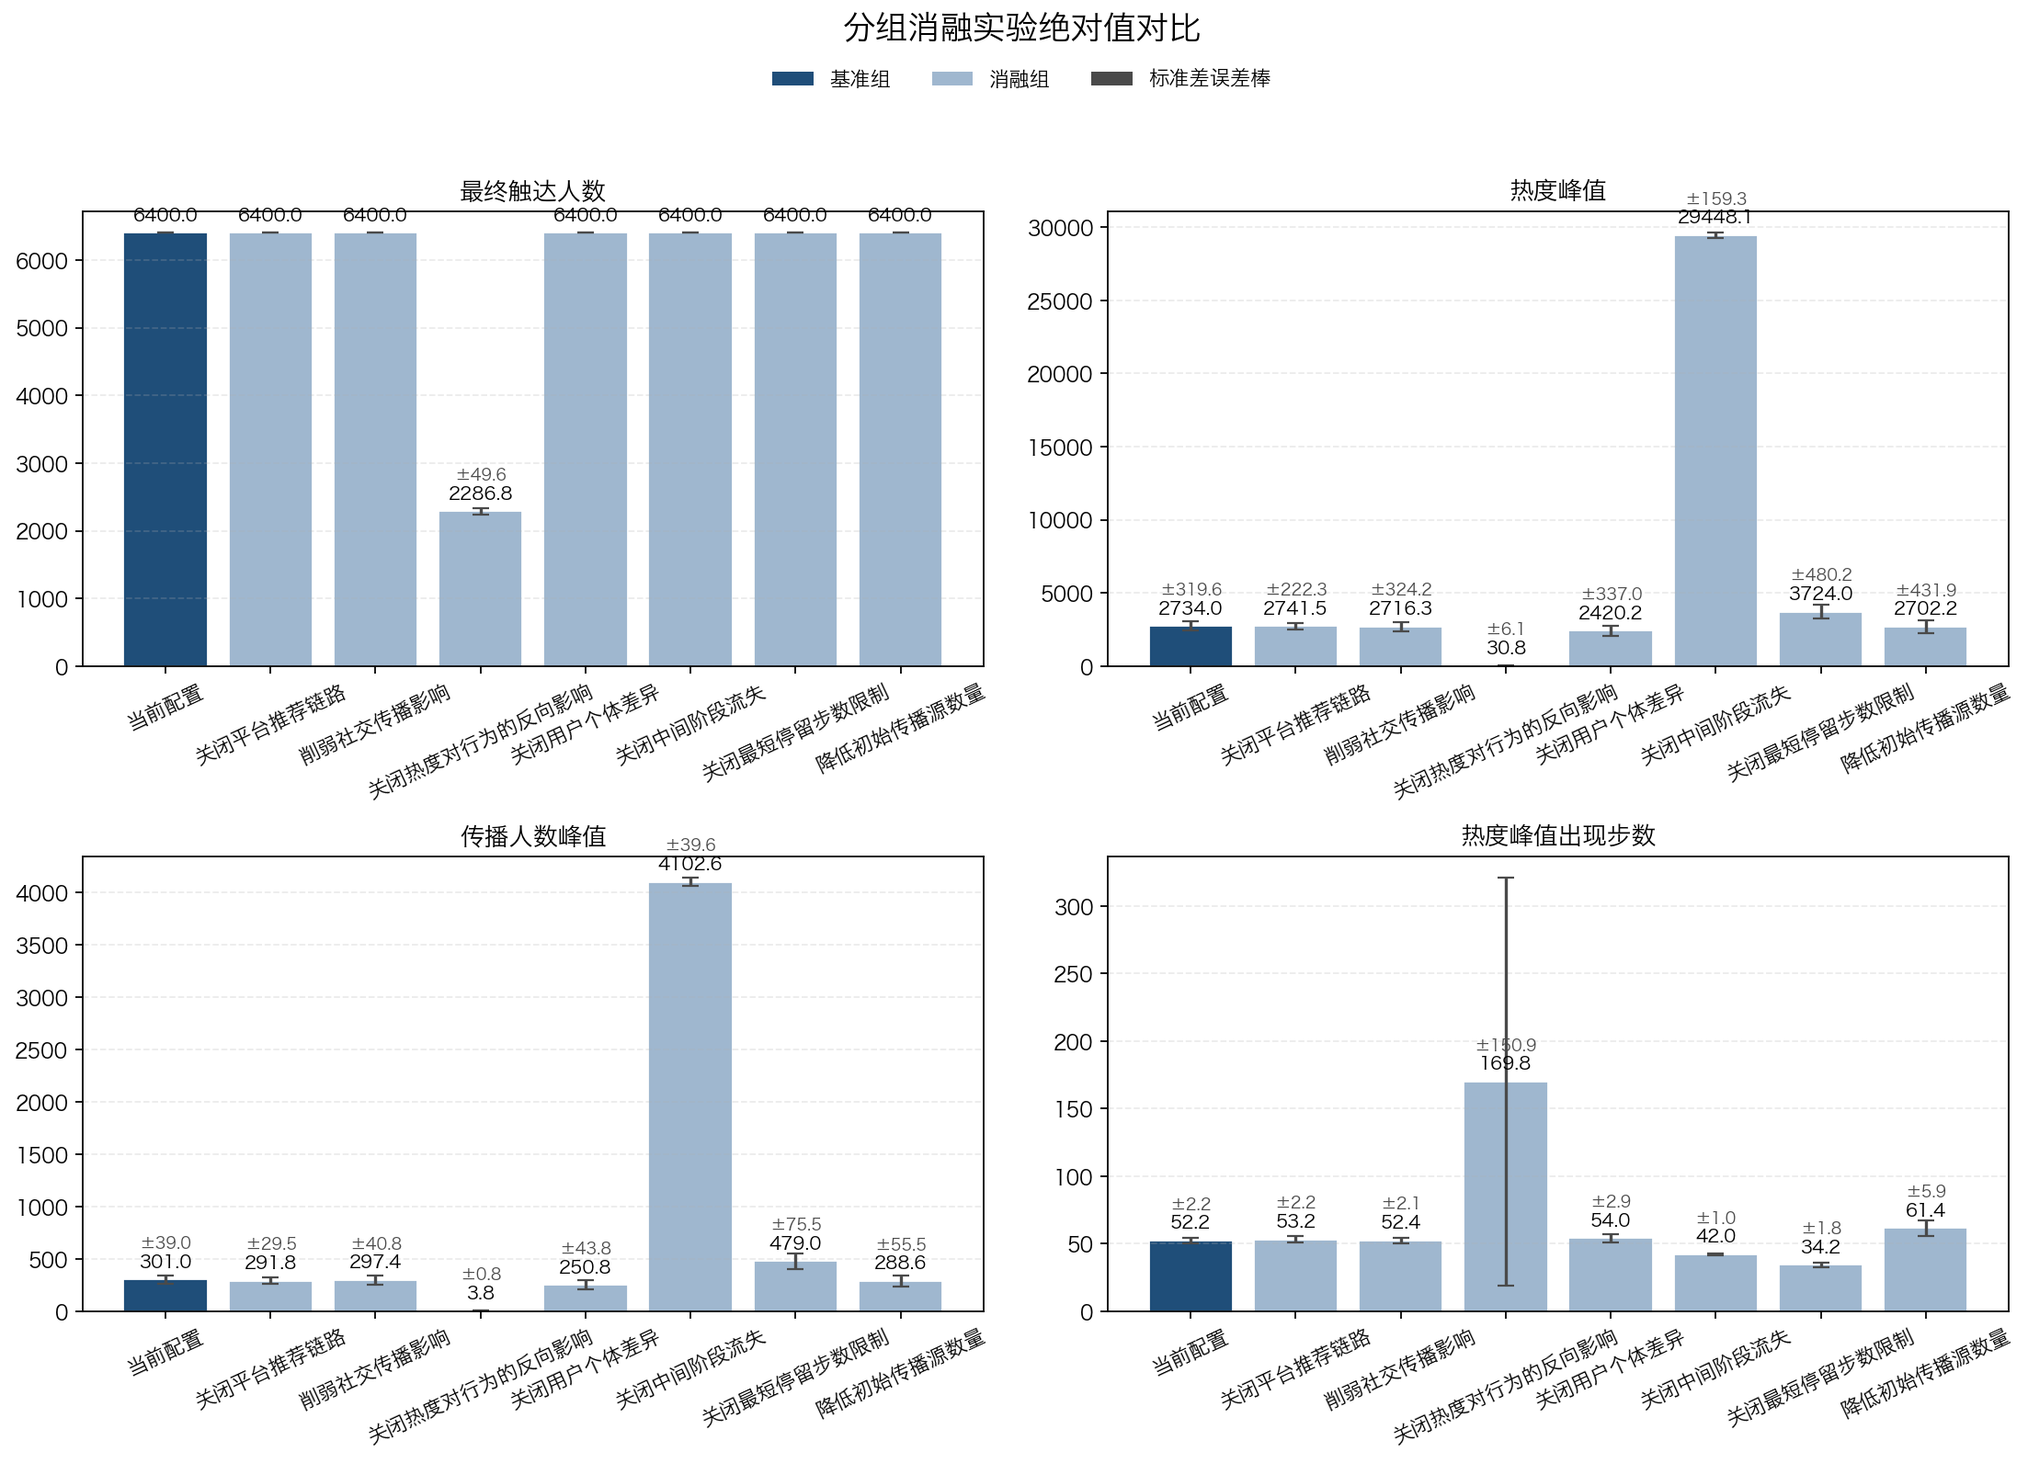
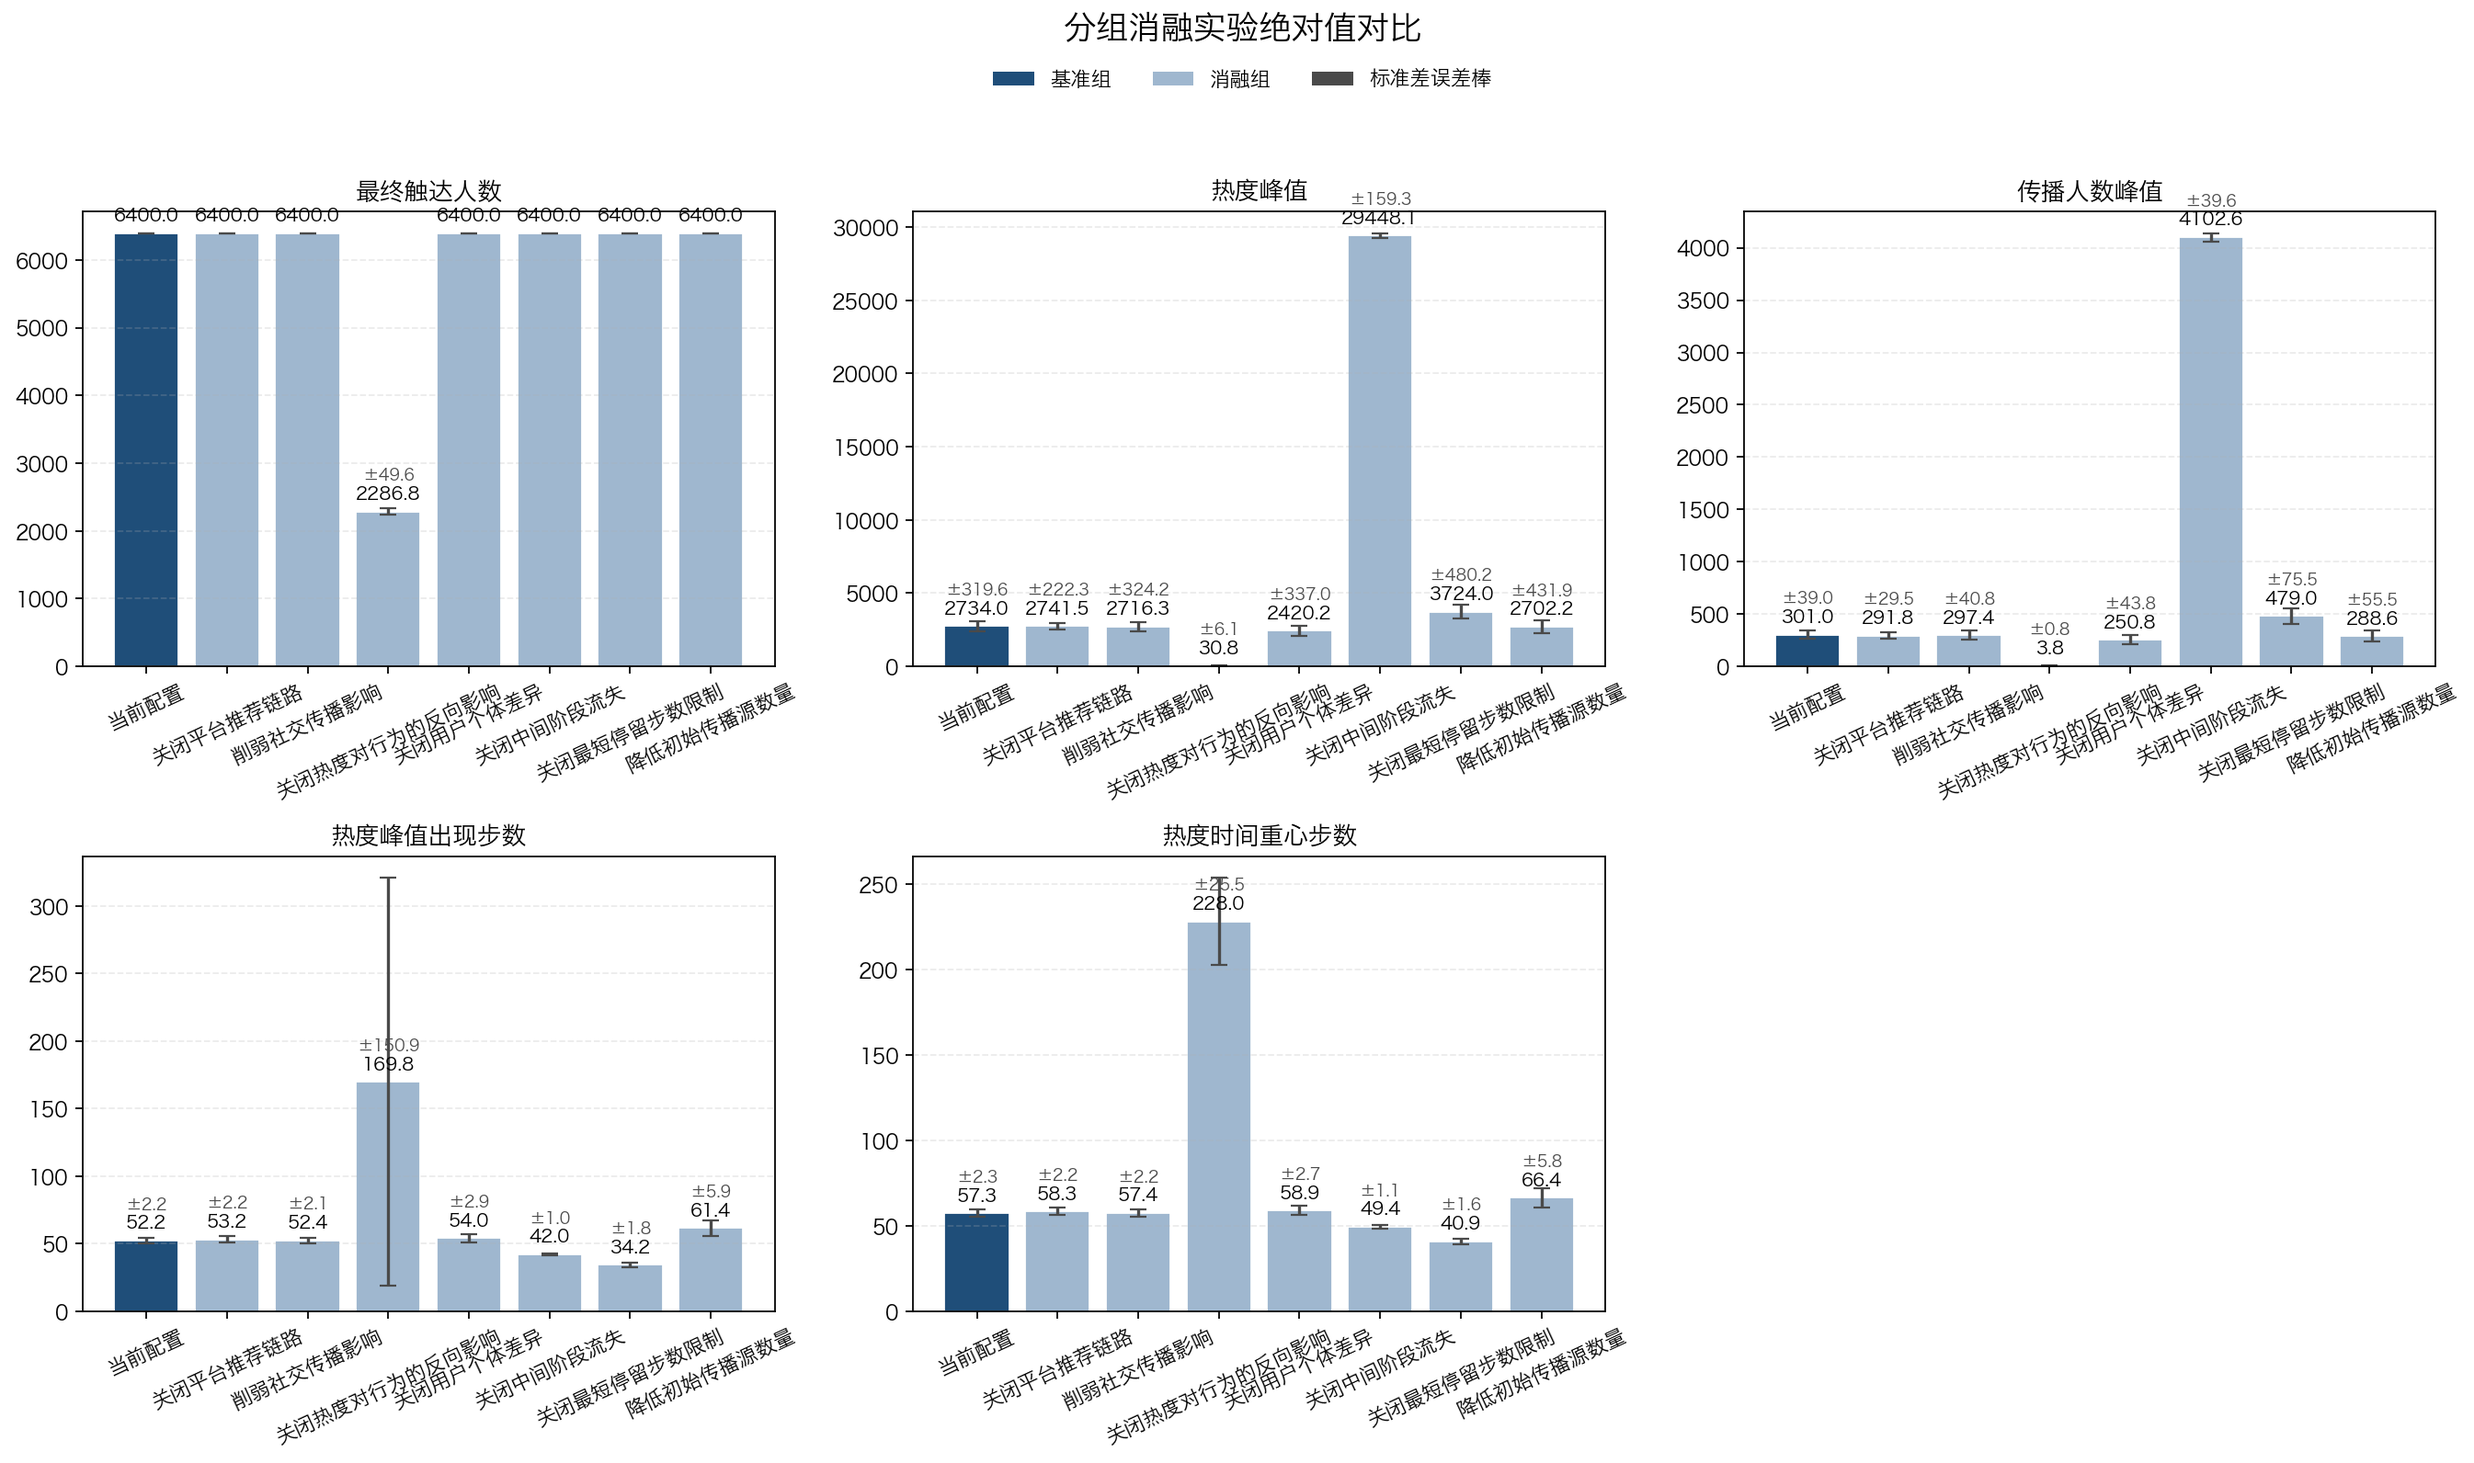
因素重要性完全实现

diff --git a/plot_ablation.py b/plot_ablation.py
@@ -10,7 +10,9 @@ from matplotlib.patches import Patch
 
 
 RESULTS_FILE = "ablation_summary.csv"
+DELTA_FILE = "ablation_delta_summary.csv"
 OUTPUT_FILE = "ablation_absolute.png"
+DELTA_OUTPUT_FILE = "ablation_delta.png"
 GROUP_ORDER = [
     "baseline",
     "no_recommend",
@@ -26,10 +28,21 @@ METRICS = [
     ("peak_heat", "热度峰值"),
     ("peak_sharing", "传播人数峰值"),
     ("peak_heat_step", "热度峰值出现步数"),
+    ("heat_center_step", "热度时间重心步数"),
 ]
 BASELINE_COLOR = "#1f4e79"
 OTHER_COLOR = "#9fb7cf"
 ERROR_BAR_COLOR = "#4a4a4a"
+POSITIVE_COLOR = "#d97a4a"
+NEGATIVE_COLOR = "#5d8f8b"
+
+DELTA_METRICS = [
+    ("delta_mean_final_reached_pct", "最终触达人数相对变化", True),
+    ("delta_mean_peak_heat_pct", "热度峰值相对变化", True),
+    ("delta_mean_peak_sharing_pct", "传播人数峰值相对变化", True),
+    ("delta_mean_peak_heat_step", "热度峰值出现步数变化", False),
+    ("delta_mean_heat_center_step", "热度时间重心步数变化", False),
+]
 
 
 def load_rows(path):
@@ -69,7 +82,7 @@ def plot_absolute_metrics(rows, output_path):
         for row in rows
     ]
 
-    fig, axes = plt.subplots(2, 2, figsize=(14, 10))
+    fig, axes = plt.subplots(2, 3, figsize=(17, 10))
     axes = axes.ravel()
 
     for ax, (metric_key, title) in zip(axes, METRICS):
@@ -113,6 +126,9 @@ def plot_absolute_metrics(rows, output_path):
                     color=ERROR_BAR_COLOR,
                 )
 
+    for ax in axes[len(METRICS):]:
+        ax.axis("off")
+
     legend_items = [
         Patch(facecolor=BASELINE_COLOR, label="基准组"),
         Patch(facecolor=OTHER_COLOR, label="消融组"),
@@ -131,11 +147,81 @@ def plot_absolute_metrics(rows, output_path):
     plt.close(fig)
 
 
+def format_delta_value(value, is_percent):
+    if is_percent:
+        return f"{value:.1f}%"
+    return f"{value:.1f}"
+
+
+def get_delta_colors(rows, metric_key):
+    colors = []
+    for row in rows:
+        if row["group"] == "baseline":
+            colors.append(BASELINE_COLOR)
+            continue
+        value = row[metric_key]
+        colors.append(POSITIVE_COLOR if value >= 0 else NEGATIVE_COLOR)
+    return colors
+
+
+def plot_delta_metrics(rows, output_path):
+    configure_fonts()
+    labels = [row["description"] for row in rows]
+    fig, axes = plt.subplots(2, 3, figsize=(17, 10))
+    axes = axes.ravel()
+
+    for ax, (metric_key, title, is_percent) in zip(axes, DELTA_METRICS):
+        raw_values = [row[metric_key] for row in rows]
+        values = [value * 100.0 if is_percent else value for value in raw_values]
+        colors = get_delta_colors(rows, metric_key)
+        ax.bar(labels, values, color=colors, edgecolor="white", linewidth=0.8)
+        ax.axhline(0, color=ERROR_BAR_COLOR, linewidth=1.0, alpha=0.8)
+        ax.set_title(title)
+        ax.tick_params(axis="x", rotation=25)
+        ax.grid(axis="y", linestyle="--", alpha=0.25)
+
+        max_abs = max((abs(value) for value in values), default=0)
+        offset = max(max_abs * 0.04, 1.0)
+        for idx, value in enumerate(values):
+            text_y = value + offset if value >= 0 else value - offset
+            va = "bottom" if value >= 0 else "top"
+            ax.text(
+                idx,
+                text_y,
+                format_delta_value(value, is_percent),
+                ha="center",
+                va=va,
+                fontsize=9,
+            )
+
+    for ax in axes[len(DELTA_METRICS):]:
+        ax.axis("off")
+
+    legend_items = [
+        Patch(facecolor=BASELINE_COLOR, label="基准组"),
+        Patch(facecolor=POSITIVE_COLOR, label="相对上升"),
+        Patch(facecolor=NEGATIVE_COLOR, label="相对下降"),
+    ]
+    fig.suptitle("分组消融实验相对变化对比", fontsize=16, y=0.99)
+    fig.legend(
+        handles=legend_items,
+        loc="upper center",
+        bbox_to_anchor=(0.5, 0.965),
+        ncol=3,
+        frameon=False,
+    )
+    fig.tight_layout(rect=(0, 0, 1, 0.93))
+    fig.savefig(output_path, dpi=160, bbox_inches="tight")
+    plt.close(fig)
+
+
 def main():
     base_dir = Path(__file__).resolve().parent
     rows = load_rows(base_dir / RESULTS_FILE)
+    delta_rows = load_rows(base_dir / DELTA_FILE)
     plot_absolute_metrics(rows, base_dir / OUTPUT_FILE)
-    print(f"Saved: {OUTPUT_FILE}")
+    plot_delta_metrics(delta_rows, base_dir / DELTA_OUTPUT_FILE)
+    print(f"Saved: {OUTPUT_FILE}, {DELTA_OUTPUT_FILE}")
 
 
 if __name__ == "__main__":

diff --git a/ablation.py b/ablation.py
@@ -87,6 +87,7 @@ CORE_METRICS = [
     "final_reached",
     "peak_heat",
     "peak_heat_step",
+    "heat_center_step",
     "peak_sharing",
     "overall_view_conversion",
     "overall_engagement_conversion",
@@ -96,6 +97,7 @@ CORE_METRICS = [
 ]
 STEP_KEYS = {
     "peak_heat_step",
+    "heat_center_step",
     "peak_sharing_step",
     "steps_to_half_reach",
     "steps_to_half_peak_heat",
@@ -121,9 +123,18 @@ def first_step_at_or_above(values, target):
     return len(values) - 1
 
 
+def compute_heat_center_step(heat_history):
+    total_heat = sum(heat_history)
+    if total_heat <= 0:
+        return 0.0
+    weighted_sum = sum(step * heat for step, heat in enumerate(heat_history))
+    return weighted_sum / total_heat
+
+
 def summarize_history(history, exp_config):
     peak_heat = max(history["heat"])
     peak_heat_step = history["heat"].index(peak_heat)
+    heat_center_step = compute_heat_center_step(history["heat"])
     peak_sharing = max(history["sharing"])
     peak_sharing_step = history["sharing"].index(peak_sharing)
     final_reached = history["cumulative_exposures"][-1]
@@ -153,6 +164,7 @@ def summarize_history(history, exp_config):
         "cumulative_shares": cumulative_shares,
         "peak_heat": round(peak_heat, 4),
         "peak_heat_step": peak_heat_step,
+        "heat_center_step": round(heat_center_step, 6),
         "peak_sharing": peak_sharing,
         "peak_sharing_step": peak_sharing_step,
         "peak_exposed": peak_exposed,

diff --git a/WORKLOG.md b/WORKLOG.md
@@ -115,6 +115,30 @@
 - Verification: 已通过源码编译检查，并在 `first_pyenv` 环境中完成 `python my_cellM_project/plot_ablation.py` 运行验证，成功重新生成 `ablation_absolute.png`。图像已切换为读取 `ablation_summary.csv` 的版本，四个子图均正常显示均值柱体和标准差误差棒；例如基准组热度峰值显示为 `2734.0 ± 319.6`，`no_stage_gating` 的热度峰值出现步数显示为 `34.2 ± 1.8`，说明多随机种子汇总信息已成功接入图像
 - Follow-up: 若误差棒版本可读性稳定，下一步可继续把相对变化图和漏斗图也切换到汇总表口径
 
+## 2026-03-16 20:18
+- Topic: 新增稳健热度节奏指标 `heat_center_step`
+- Changes: 在 `ablation.py` 中新增 `heat_center_step` 统计，按热度时间重心公式 `sum(t * heat_t) / sum(heat_t)` 计算；将其接入单随机种子结果、多随机种子汇总和相对基准组对比输出
+- Files: `ablation.py`, `WORKLOG.md`, `markdown.md`
+- Reason: 解决 `no_heat_feedback` 组中 `peak_heat_step` 在低热度场景下过于依赖随机尖峰、方差过大的问题，为传播节奏分析提供更稳健的时间指标
+- Verification: 已通过源码编译检查，并在 `first_pyenv` 环境中完成 `python my_cellM_project/ablation.py` 运行验证。`ablation_results.csv`、`ablation_summary.csv` 和 `ablation_delta_summary.csv` 已新增 `heat_center_step` 相关字段。对于重点关注的 `no_heat_feedback` 组，多随机种子下 `std_peak_heat_step = 150.909576`，而 `std_heat_center_step = 25.487004`，波动明显收敛；基准组 `std_heat_center_step = 2.251911`，与 `std_peak_heat_step = 2.167948` 同数量级，说明新指标在常规场景下也保持稳定可用
+- Follow-up: 如果 `heat_center_step` 在 `no_heat_feedback` 组里明显比 `peak_heat_step` 稳定，下一步可把它加入后续节奏对比图或报告口径
+
+## 2026-03-16 20:30
+- Topic: 将 `heat_center_step` 接入绝对值对比图
+- Changes: 更新 `plot_ablation.py`，在绝对值对比图中新增“热度时间重心步数”子图，并将整体布局从 `2 x 2` 调整为 `2 x 3`，同时保留 `peak_heat_step`，便于直接比较两种热度节奏指标
+- Files: `plot_ablation.py`, `WORKLOG.md`, `markdown.md`
+- Reason: 让对比图能够直观看到 `peak_heat_step` 与 `heat_center_step` 的差异，特别是用于解释 `no_heat_feedback` 组里原始峰值时间口径的不稳定性
+- Verification: 已通过源码编译检查，并在 `first_pyenv` 环境中完成 `python my_cellM_project/plot_ablation.py` 运行验证，成功重新生成 `ablation_absolute.png`。图像已扩展为 5 个有效子图，新增“热度时间重心步数”后可直接与“热度峰值出现步数”对照；其中 `no_heat_feedback` 组在图中显示出 `peak_heat_step = 169.8 ± 150.9` 与 `heat_center_step = 228.0 ± 25.5` 的明显差异，说明新指标已经成功接入并改善了节奏解释的稳定性
+- Follow-up: 若这张图的节奏部分可读性足够好，下一步可继续把相对变化图也接入 `heat_center_step`
+
+## 2026-03-16 20:44
+- Topic: 新增相对变化柱状图
+- Changes: 更新 `plot_ablation.py`，新增读取 `ablation_delta_summary.csv` 的相对变化图输出 `ablation_delta.png`；图中加入最终触达人数、热度峰值、传播人数峰值、热度峰值出现步数和热度时间重心步数 5 个相对子图，百分比指标统一转换为 `%` 显示，并通过正负配色区分相对上升与下降
+- Files: `plot_ablation.py`, `WORKLOG.md`, `markdown.md`
+- Reason: 让多随机种子消融实验除了看绝对均值外，也能直接看相对基准组的变化幅度，便于判断不同机制对传播规模、强度和节奏的影响方向
+- Verification: 已通过源码编译检查，并在 `first_pyenv` 环境中完成 `python my_cellM_project/plot_ablation.py` 运行验证，成功生成 `ablation_delta.png`。图像文件已生成且格式正常，5 个相对子图均可正常显示：例如 `no_heat_feedback` 组在图中表现为最终触达约 `-64.3%`、热度峰值约 `-98.9%`、热度峰值出现步数 `+117.6`、热度时间重心步数 `+170.7`；`no_dropout` 组则表现为热度峰值约 `+977.1%`、传播人数峰值约 `+1263.0%`
+- Follow-up: 如果相对变化图可读性稳定，下一步可考虑再补一张漏斗结构相对变化图
+
 ## Template
 - Topic:
 - Changes:

diff --git a/markdown.md b/markdown.md
@@ -80,8 +80,10 @@
 职责：
 
 - 读取 `ablation_summary.csv`
+- 读取 `ablation_delta_summary.csv`
 - 绘制带标准差误差棒的分组消融实验绝对值对比柱状图
-- 输出 `ablation_absolute.png`
+- 绘制相对基准组变化的柱状图
+- 输出 `ablation_absolute.png` 和 `ablation_delta.png`
 
 ### `markdown.md`
 项目说明文档，即当前文件。
@@ -108,7 +110,10 @@
 多随机种子消融实验相对基准组的均值变化表，用于判断某种机制的重要性是否在多次重复下仍然稳定。
 
 ### `ablation_absolute.png`
-消融实验绝对值对比图，当前包含最终触达人数、热度峰值、传播人数峰值和热度峰值出现步数四个子图，并使用标准差误差棒表示多随机种子下的波动。
+消融实验绝对值对比图，当前包含最终触达人数、热度峰值、传播人数峰值、热度峰值出现步数和热度时间重心步数五个子图，并使用标准差误差棒表示多随机种子下的波动。
+
+### `ablation_delta.png`
+消融实验相对变化对比图，基于 `ablation_delta_summary.csv` 绘制，当前包含最终触达人数、热度峰值、传播人数峰值、热度峰值出现步数和热度时间重心步数五个相对子图。
 
 ---
 
@@ -426,7 +431,8 @@
 
 如果运行 `plot_ablation.py`，还会额外输出一张图像：
 
-- `ablation_absolute.png`：基于 `ablation_summary.csv` 的分组消融实验绝对值对比柱状图，包含标准差误差棒
+- `ablation_absolute.png`：基于 `ablation_summary.csv` 的分组消融实验绝对值对比柱状图，包含标准差误差棒，并同时展示 `peak_heat_step` 与 `heat_center_step`
+- `ablation_delta.png`：基于 `ablation_delta_summary.csv` 的相对变化柱状图，用于直接比较各实验组相对基准组的变化幅度
 
 当前消融实验默认记录以下核心指标：
 
@@ -437,6 +443,7 @@
 - `cumulative_shares`
 - `peak_heat`
 - `peak_heat_step`
+- `heat_center_step`
 - `peak_sharing`
 - `peak_sharing_step`
 - `overall_view_conversion`
@@ -452,11 +459,18 @@
 
 这些指标分别覆盖传播规模、传播强度、传播节奏、漏斗结构和传播来源结构。
 
+其中，`heat_center_step` 表示热度时间重心，计算公式为：
+
+`heat_center_step = sum(t * heat_t) / sum(heat_t)`
+
+它不是寻找“最大值出现在哪一步”，而是衡量整条热度曲线主要集中在时间轴的什么位置。在低热度、低振幅场景下，这个指标通常比 `peak_heat_step` 更稳定。
+
 在多随机种子模式下，`ablation.py` 默认会对每个实验组使用 5 个随机种子重复运行，并对以下核心指标计算均值和标准差：
 
 - `final_reached`
 - `peak_heat`
 - `peak_heat_step`
+- `heat_center_step`
 - `peak_sharing`
 - `overall_view_conversion`
 - `overall_engagement_conversion`
@@ -501,6 +515,7 @@ python my_cellM_project/plot_ablation.py
 运行完成后会在项目根目录生成：
 
 - `ablation_absolute.png`
+- `ablation_delta.png`
 
 如果使用 conda 环境，应确保运行命令对应的解释器中已经安装：
 
@@ -608,6 +623,7 @@ MPLBACKEND=Agg python my_cellM_project/main.py
 - 已支持更细的行为漏斗和更完整的统计输出
 - 已支持按机制分组的消融实验分析
 - 已支持带标准差误差棒的消融结果绝对值柱状图输出
+- 已支持相对基准组变化的消融结果柱状图输出
 - 可同时输出统计曲线和传播动画
 
 ---
